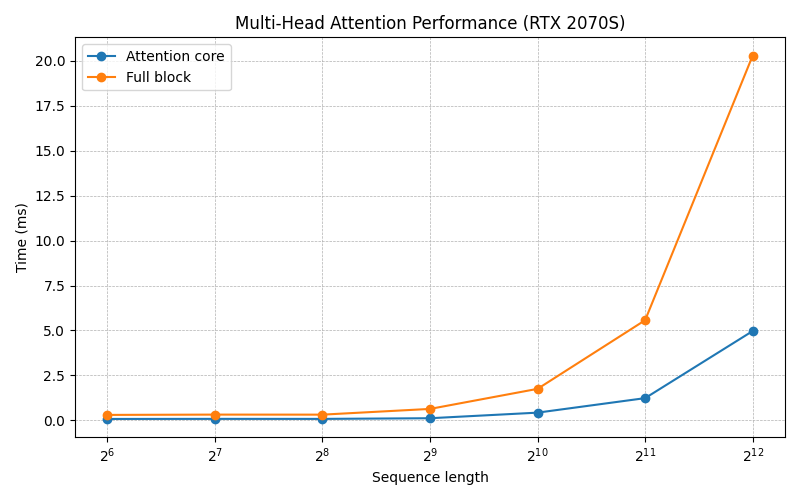
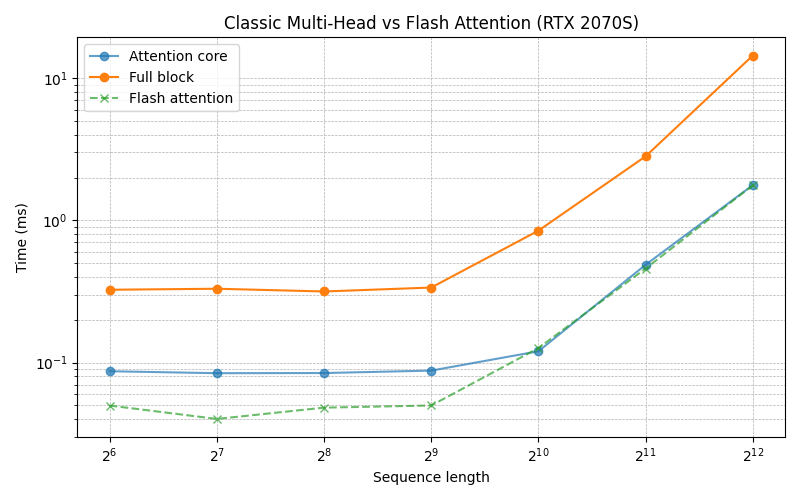
flash attention with fp16 measurements
- Extended benchmark to include Flash Attention.
- Updated all measurements ( FP32 --> FP16 )

diff --git a/src/test_perf.py b/src/test_perf.py
@@ -1,13 +1,15 @@
 import torch
 from attention import MultiHeadAttentionBlock
+from flash_attn.flash_attn_interface import flash_attn_func
 
 batch_size = 1
 d_model = 512
 num_heads = 16
+head_dim = d_model // num_heads
 seq_lens = [64, 128, 256, 512, 1024, 2048, 4096]
 mask = None
 
-attentionBlock = MultiHeadAttentionBlock(d_model, num_heads, dropout=0.0).cuda()
+attentionBlock = MultiHeadAttentionBlock(d_model, num_heads, dropout=0.0).cuda().half()
 
 results = []
 num_iters = 100
@@ -15,14 +17,24 @@ num_iters = 100
 for seq_len in seq_lens:
 
     # Create random input tensors
-    query = torch.randn(batch_size, seq_len, d_model, device='cuda')
-    key = torch.randn(batch_size, seq_len, d_model, device='cuda')
-    value = torch.randn(batch_size, seq_len, d_model, device='cuda')
+    query = torch.randn(batch_size, seq_len, d_model, device='cuda', dtype=torch.float16)
+    key = torch.randn(batch_size, seq_len, d_model, device='cuda', dtype=torch.float16)
+    value = torch.randn(batch_size, seq_len, d_model, device='cuda', dtype=torch.float16)
+
+    # Create qkv tensor for flash_attn_func
+    q = query.view(batch_size * seq_len, num_heads, head_dim)
+    k = key.view(batch_size * seq_len, num_heads, head_dim)
+    v = value.view(batch_size * seq_len, num_heads, head_dim)
+    qkv = torch.stack([q, k, v], dim=1)  # (total_q, 3, num_heads, head_dim)
+    cu_seqlens = torch.arange(0, (batch_size + 1) * seq_len, step=seq_len,
+                          dtype=torch.int32, device='cuda')
 
     startCore = torch.cuda.Event(enable_timing=True)
     endCore = torch.cuda.Event(enable_timing=True)
     startFull = torch.cuda.Event(enable_timing=True)
     endFull = torch.cuda.Event(enable_timing=True)
+    startFlash = torch.cuda.Event(enable_timing=True)
+    endFlash = torch.cuda.Event(enable_timing=True)
 
     # GPU warm up
     for _ in range(5):
@@ -44,19 +56,28 @@ for seq_len in seq_lens:
     endFull.record()
     torch.cuda.synchronize()
 
+    # built-in flash attention measure
+    startFlash.record()
+    for _ in range(num_iters):
+        flash_attn_func(qkv, cu_seqlens, 0.0, seq_len, softmax_scale=None, causal=False)
+    endFlash.record()
+    torch.cuda.synchronize()
+
     coreAvgTimeMs = startCore.elapsed_time(endCore) / num_iters
     fullAvgTimeMs = startFull.elapsed_time(endFull) / num_iters
+    flashAvgTimeMs = startFlash.elapsed_time(endFlash) / num_iters
     print(f"seq len: {seq_len} tokens")
     print(f"attention core: {coreAvgTimeMs:.3f} ms")
-    print(f"full block: {fullAvgTimeMs:.3f} ms\n")
+    print(f"full block: {fullAvgTimeMs:.3f} ms")
+    print(f"flash attention: {flashAvgTimeMs:.3f} ms\n")
 
-    results.append((seq_len, coreAvgTimeMs, fullAvgTimeMs))
+    results.append((seq_len, coreAvgTimeMs, fullAvgTimeMs, flashAvgTimeMs))
 
 #saving results
 import csv
 
 with open("src/benchmarks/attention_benchmark.csv", "w", newline="") as f:
     writer = csv.writer(f)
-    writer.writerow(["seq_len", "core_ms", "full_ms"])
+    writer.writerow(["seq_len", "core_ms", "full_ms", "flash_ms"])
     writer.writerows(results)
 print("results saved to src/benchmarks/attention_benchmark.csv")

diff --git a/src/plot_results.py b/src/plot_results.py
@@ -7,17 +7,19 @@ import matplotlib.pyplot as plt
 df = pd.read_csv("src/benchmarks/attention_benchmark.csv")
 
 plt.figure(figsize=(8,5))
-plt.plot(df["seq_len"], df["core_ms"], marker="o", label="Attention core")
+plt.plot(df["seq_len"], df["core_ms"], marker="o", alpha = 0.7, label="Attention core")
 plt.plot(df["seq_len"], df["full_ms"], marker="o", label="Full block")
+plt.plot(df["seq_len"], df["flash_ms"], marker="x", ls = '--', alpha = 0.7, label="Flash attention")
 
 plt.xticks(df["seq_len"])
 seq_ticks = sorted(df["seq_len"].unique().tolist())
 plt.xticks(seq_ticks, [str(x) for x in seq_ticks])
 plt.xscale("log", base=2)
+plt.yscale("log")
 
 plt.xlabel("Sequence length")
 plt.ylabel("Time (ms)")
-plt.title("Multi-Head Attention Performance (RTX 2070S)")
+plt.title("Classic Multi-Head vs Flash Attention (RTX 2070S)")
 plt.grid(True, which="both", linestyle="--", linewidth=0.5)
 plt.legend()
 plt.tight_layout()
